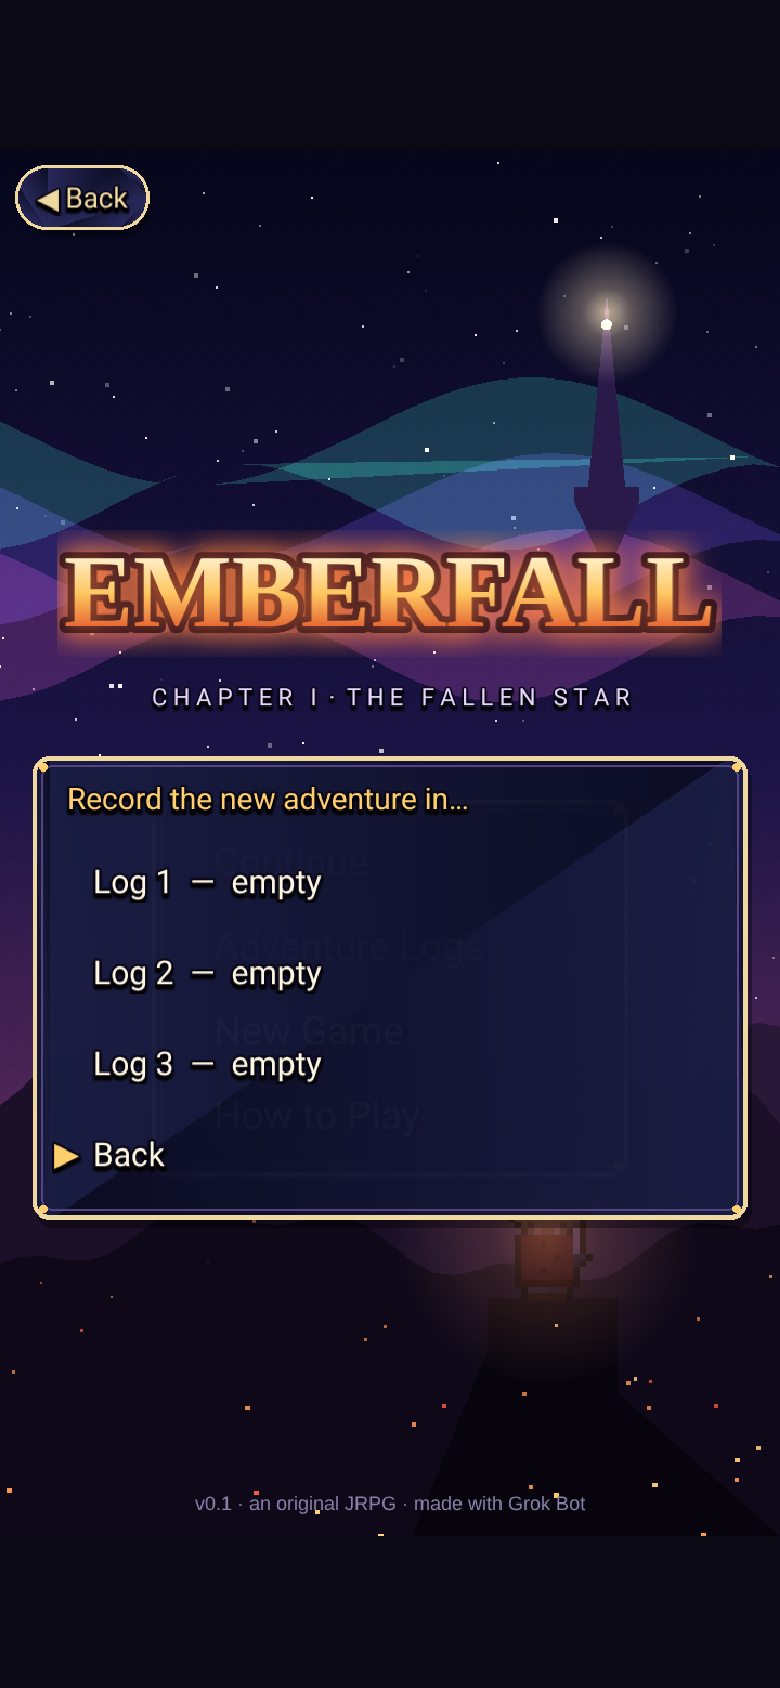
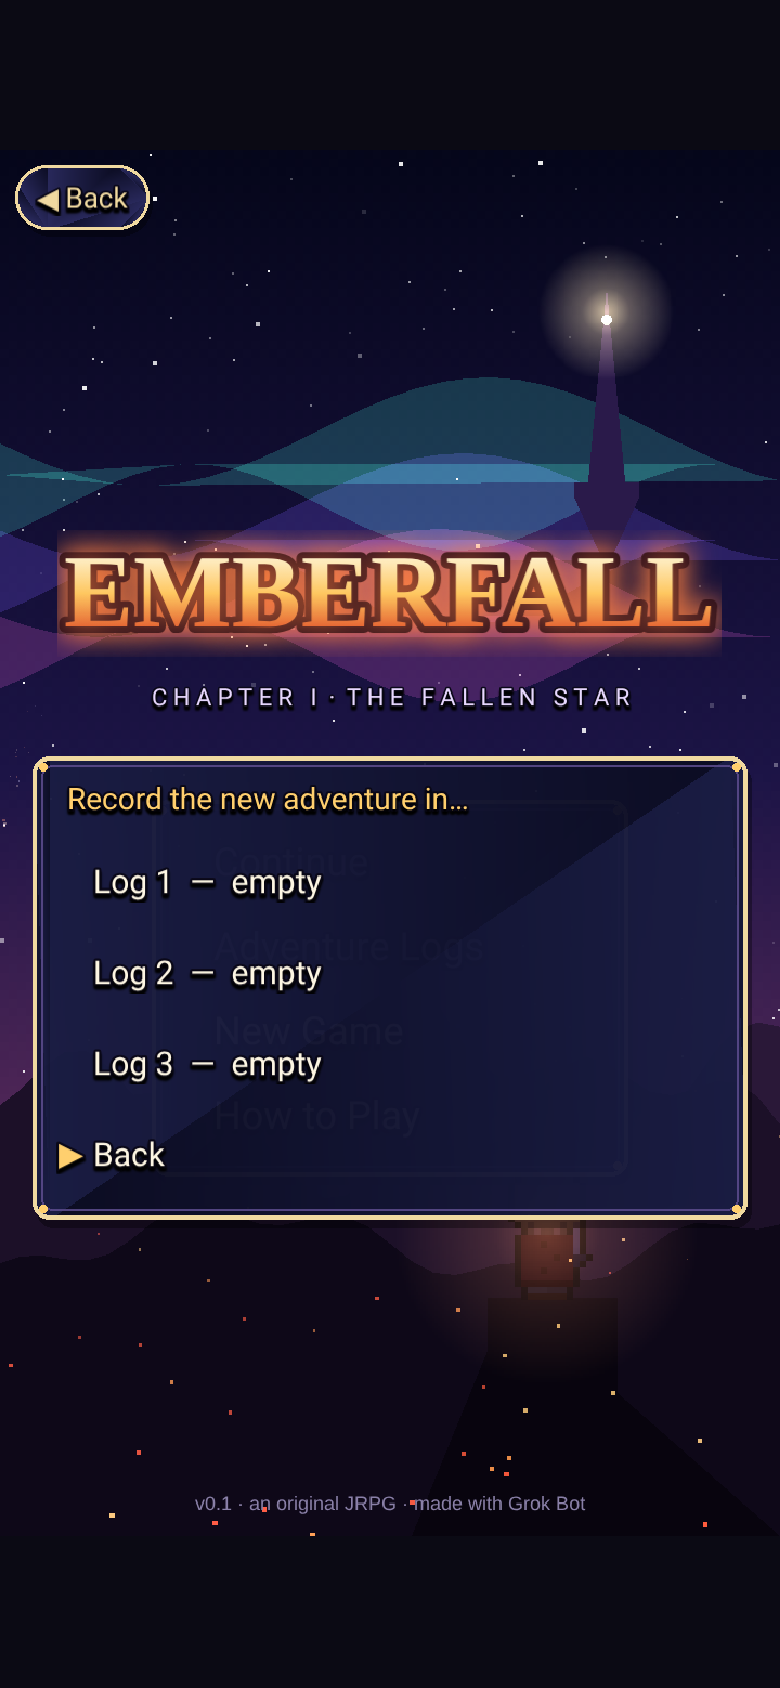
HD party dolls (EPX+rim light) in battle/menus, cloud shadows, sun shafts, water glints, title v0.2, slot picker preselect, Ch2 playthrough test, data-check

Changed region(s): [[0.2154, 0.1848, 1.0, 0.4313], [0.0, 0.2464, 0.1846, 0.4313], [0.0615, 0.6777, 0.1231, 0.7085]]

diff --git a/src/scenes/UIScene.ts b/src/scenes/UIScene.ts
@@ -8,7 +8,7 @@ import { TUTORIALS, QUESTS } from '../data/story';
 import { ITEMS, SLOTS, SLOT_NAMES, Slot } from '../data/items';
 import { SKILLS } from '../data/skills';
 import { VOCATIONS, xpFor } from '../data/vocations';
-import { ensureDoll, specOf } from '../systems/paperdoll';
+import { ensureDollHd as ensureDoll, specOf } from '../systems/paperdoll';
 import type { WorldScene } from './WorldScene';
 
 const SHOPS: Record<string, string[]> = {
@@ -215,7 +215,7 @@ export class UIScene extends Phaser.Scene {
       const c = this.add.container(0, 0).setDepth(1300);
       c.add(this.add.rectangle(0, 0, W, H, 0x05040c, 0.9).setOrigin(0).setInteractive());
       c.add(panel(this, 20, 120, W - 40, 1040));
-      const key = ensureDoll(this, specOf(mm)); const d = this.add.sprite(170, 480, key, 0).setOrigin(0.5, 1).setScale(11); c.add(d);
+      const key = ensureDoll(this, specOf(mm)); const d = this.add.sprite(170, 480, key, 0).setOrigin(0.5, 1).setScale(5.5); c.add(d);
       this.time.addEvent({ delay: 250, repeat: 40, callback: () => d.active && d.setFrame([0, 1, 0, 2][Math.floor(this.time.now / 250) % 4]) });
       c.add(txt(this, 330, 160, mm.name, 44, COL.accent, { fontFamily: SERIF }));
       c.add(txt(this, 330, 220, `${v.name}  ·  Level ${mm.level}`, 28));
@@ -268,7 +268,7 @@ export class UIScene extends Phaser.Scene {
     const view = this.add.container(0, 0).setDepth(1300);
     view.add(this.add.rectangle(0, 0, W, H, 0x05040c, 0.88).setOrigin(0).setInteractive());
     view.add(panel(this, 20, 120, W - 40, 420));
-    const doll = this.add.sprite(170, 500, '__DEFAULT').setOrigin(0.5, 1).setScale(14); view.add(doll);
+    const doll = this.add.sprite(170, 500, '__DEFAULT').setOrigin(0.5, 1).setScale(7); view.add(doll);
     const statT = txt(this, 320, 150, '', 28, COL.text, { lineSpacing: 10 }); view.add(statT);
     view.add(txt(this, 170, 140, mem.name, 30, COL.accent).setOrigin(0.5, 0));
     let dir = 0; const anim = this.time.addEvent({ delay: 220, loop: true, callback: () => { const f = [0, 1, 0, 2][Math.floor(this.time.now / 220) % 4]; doll.setFrame(dir * 3 + f); } });
@@ -325,7 +325,7 @@ export class UIScene extends Phaser.Scene {
       Game.s.party.forEach((m, i) => {
         const ok = canEquip(m, id); const x = 40 + sp * i + sp / 2;
         const eq = ok ? { ...m.equip, [it.slot!]: id } : m.equip;
-        const d = this.add.sprite(x, 380, ensureDoll(this, { look: m.look, equip: eq }), 0).setOrigin(0.5, 1).setScale(n > 2 ? 8 : 10).setAlpha(ok ? 1 : 0.35);
+        const d = this.add.sprite(x, 380, ensureDoll(this, { look: m.look, equip: eq }), 0).setOrigin(0.5, 1).setScale(n > 2 ? 4 : 5).setAlpha(ok ? 1 : 0.35);
         this.tweens.add({ targets: d, y: 374, yoyo: true, repeat: -1, duration: 400 });
         const cur = stats(m), nx = stats({ ...m, equip: eq }); const k = Object.keys(it.mods || {})[0] || 'def';
         const diff = (nx as any)[k] - (cur as any)[k];
@@ -392,7 +392,7 @@ export class UIScene extends Phaser.Scene {
         const view = this.add.container(0, 0).setDepth(1300);
         view.add(this.add.rectangle(0, 0, W, H, 0x05040c, 0.86).setOrigin(0).setInteractive());
         view.add(panel(this, 20, 120, W - 40, 330));
-        const doll = this.add.sprite(150, 420, ensureDoll(this, specOf(mem)), 0).setOrigin(0.5, 1).setScale(11); view.add(doll);
+        const doll = this.add.sprite(150, 420, ensureDoll(this, specOf(mem)), 0).setOrigin(0.5, 1).setScale(5.5); view.add(doll);
         const dt = txt(this, 290, 150, '', 25, COL.text, { wordWrap: { width: W - 330 }, lineSpacing: 6 }); view.add(dt);
         const m = new ListMenu(this, 20, 470, W - 40, keys.map(k => ({ label: VOCATIONS[k].name, sub: k === mem.voc ? `Lv${lv(k)} (current)` : `Lv${lv(k)}`, color: k === mem.voc ? COL.accent : undefined })), { title: `${mem.name}'s vocation`, rows: 7, itemH: 72 }).setDepth(1301);
         const upd = (k: number) => { const v = VOCATIONS[keys[k]]; const st = stats({ ...mem, voc: keys[k], level: lv(keys[k]) } as any); dt.setText(`${v.name}\n${v.desc.replace(/ \(Unlocked.*\)/, '')}\n\nHP ${st.hp}  MP ${st.mp}  ATK ${st.atk}\nDEF ${st.def}  AGI ${st.agi}  MAG ${st.mag}`); };

diff --git a/src/scenes/WorldScene.ts b/src/scenes/WorldScene.ts
@@ -251,6 +251,30 @@ export class WorldScene extends Phaser.Scene {
       this.add.particles(0, 0, 'px', { x: { min: 0, max: mw }, y: { min: 0, max: mh }, lifespan: 3200, speedY: { min: -12, max: -4 }, speedX: { min: -2, max: 2 }, scale: { start: 0.5, end: 1.1 }, alpha: { start: 0.7, end: 0 }, tint: [0xa0f0ff, 0x60f0d0], blendMode: 'ADD', frequency: 90 }).setDepth(8003);
       this.add.particles(0, 0, 'light', { x: { min: 0, max: mw }, y: { min: 0, max: mh }, lifespan: 5000, scale: { start: 0.05, end: 0.25 }, alpha: { start: 0.0, end: 0.25, ease: (t: number) => Math.sin(t * Math.PI) }, tint: [0x40e0d0, 0x60a0ff], blendMode: 'ADD', frequency: 400 }).setDepth(8003);
     }
+    // ---- HD-2D atmosphere: drifting cloud shadows, sun shafts and water glints
+    const water: [number, number][] = [];
+    for (let y = 0; y < this.grid.length; y++) for (let x = 0; x < this.grid[0].length; x++) if (LEGEND[this.grid[y][x]]?.anim) water.push([x, y]);
+    if (this.def.outdoor && !this.isNight() && this.def.id !== 'spire') {
+      for (let i = 0; i < Math.ceil(mw * mh / 60000); i++) {
+        const c = this.add.image(Math.random() * mw, Math.random() * mh, 'light').setTint(0x10182a).setAlpha(0.13).setScale(1.3 + Math.random() * 0.8, 0.9 + Math.random() * 0.5).setDepth(4990);
+        const drift = () => { const sp = 6 + Math.random() * 4; this.tweens.add({ targets: c, x: mw + 220, duration: ((mw + 220 - c.x) / sp) * 1000, onComplete: () => { c.x = -220; c.y = Math.random() * mh; drift(); } }); };
+        drift();
+      }
+      for (let i = 0; i < 3; i++) {
+        const r = this.add.image(0, 0, 'light').setTint(0xfff0c0).setBlendMode(Phaser.BlendModes.ADD).setScale(0.16, 1.7).setRotation(-0.45).setAlpha(0).setScrollFactor(0).setDepth(8090);
+        r.setPosition(300 + i * 55, 540 + i * 12); // screen-space (camera zoom 4 around the centre)
+        this.tweens.add({ targets: r, alpha: 0.07 + i * 0.015, yoyo: true, repeat: -1, duration: 4200 + i * 1300, delay: i * 900, ease: 'Sine.inOut' });
+      }
+    }
+    if (water.length) {
+      const glintC = this.isNight() ? [0x9ab0ff] : [0xffffff, 0xfff0c0, 0xc0f0ff];
+      this.time.addEvent({ delay: Math.max(40, 2400 / Math.min(60, water.length)), loop: true, callback: () => {
+        const [x, y] = water[Math.floor(Math.random() * water.length)]; const cam = this.cameras.main.worldView;
+        const px = x * TS + 2 + Math.random() * 12, py = y * TS + 2 + Math.random() * 12; if (!cam.contains(px, py)) return;
+        const g = this.add.image(px, py, 'px').setTint(glintC[Math.floor(Math.random() * glintC.length)]).setBlendMode(Phaser.BlendModes.ADD).setScale(2, 1).setAlpha(0).setDepth(2);
+        this.tweens.add({ targets: g, alpha: 0.9, scaleX: 3, yoyo: true, duration: 380, onComplete: () => g.destroy() });
+      } });
+    }
   }
   // ------------------------------------------------------------------ movement
   solidAt(x: number, y: number, ignoreActor?: Actor) {

diff --git a/src/scenes/CreateScene.ts b/src/scenes/CreateScene.ts
@@ -3,7 +3,7 @@ import { txt, panel, W, H, COL, SERIF } from '../ui/widgets';
 import { Input, Focus, Action } from '../ui/input';
 import { Audio } from '../systems/audio';
 import { Game, newMember, Look, stats, Member } from '../systems/state';
-import { ensureDoll, SKIN_NAMES, HAIR_NAMES, EYE_NAMES, OUTFIT_NAMES, HAIR_STYLES, FACES, BODIES, randomLook } from '../systems/paperdoll';
+import { ensureDoll, ensureDollHd, SKIN_NAMES, HAIR_NAMES, EYE_NAMES, OUTFIT_NAMES, HAIR_STYLES, FACES, BODIES, randomLook } from '../systems/paperdoll';
 import { VOCATIONS, STARTING_VOCS } from '../data/vocations';
 
 const STARTER: Record<string, Record<string, string>> = {
@@ -36,7 +36,7 @@ export class CreateScene extends Phaser.Scene implements Focus {
     const ped = this.add.graphics(); ped.fillStyle(0x3a2a6a, 1); ped.fillEllipse(W / 2, 470, 260, 60); ped.fillStyle(0x6a5aa0, 1); ped.fillEllipse(W / 2, 462, 230, 44);
     this.add.image(W / 2, 330, 'light').setTint(0xffd890).setScale(3.2).setAlpha(0.3).setBlendMode(Phaser.BlendModes.ADD);
     this.add.particles(0, 0, 'dot', { x: { min: W / 2 - 120, max: W / 2 + 120 }, y: 470, lifespan: 2000, speedY: { min: -40, max: -90 }, scale: { start: 1, end: 0 }, alpha: { start: 0.8, end: 0 }, tint: [0xffe8a0, 0x9ad0ff], blendMode: 'ADD', frequency: 120 });
-    this.doll = this.add.sprite(W / 2, 470, '__DEFAULT').setOrigin(0.5, 1).setScale(13);
+    this.doll = this.add.sprite(W / 2, 470, '__DEFAULT').setOrigin(0.5, 1).setScale(6.5);
     const rot = (d: number) => { this.dirIdx = (this.dirIdx + d + 4) % 4; this.refreshDoll(); Audio.sfx('cursor'); };
     const la = txt(this, W / 2 - 230, 330, '⟲', 54, COL.goldS).setOrigin(0.5).setInteractive(); la.on('pointerdown', () => rot(1));
     const ra = txt(this, W / 2 + 230, 330, '⟳', 54, COL.goldS).setOrigin(0.5).setInteractive(); ra.on('pointerdown', () => rot(-1));
@@ -91,7 +91,7 @@ export class CreateScene extends Phaser.Scene implements Focus {
   }
   /** Starting vocations, plus those unlocked at the Chapel of Alltrades. */
   vocList() { return Object.keys(VOCATIONS).filter(k => STARTING_VOCS.includes(k) || (this.mode === 'companion' && Game.s?.flags?.vocationsOpen)); }
-  refreshDoll() { const key = ensureDoll(this, { look: { ...this.look }, equip: STARTER[this.voc] }); this.doll.setTexture(key, [0, 3, 9, 6][this.dirIdx]); }
+  refreshDoll() { const key = ensureDollHd(this, { look: { ...this.look }, equip: STARTER[this.voc] }); this.doll.setTexture(key, [0, 3, 9, 6][this.dirIdx]); }
   change(d: number) {
     const r = this.rows[this.sel]; if (!r.opts) return; const n = r.opts.length; r.set((r.get() + d + n) % n); Audio.sfx('cursor');
     this.buildRows(); this.refreshDoll();

diff --git a/src/scenes/BattleScene.ts b/src/scenes/BattleScene.ts
@@ -7,7 +7,7 @@ import { Game, stats, Member, skillsOf, gainXp } from '../systems/state';
 import { ENEMIES, EnemyDef } from '../data/enemies';
 import { SKILLS, Skill } from '../data/skills';
 import { ITEMS } from '../data/items';
-import { ensureDoll, specOf } from '../systems/paperdoll';
+import { ensureDoll, ensureDollHd, specOf } from '../systems/paperdoll';
 import { TUTORIALS } from '../data/story';
 
 interface Foe { def: EnemyDef; name: string; hp: number; mp: number; spr: Phaser.GameObjects.Sprite; x: number; y: number; alive: boolean; buffDef: number; buffAtk: number; poisoned: boolean; charged: boolean; stolen?: boolean; asleep?: number; chargeAct?: any }
@@ -69,7 +69,7 @@ export class BattleScene extends Phaser.Scene {
     const pn = this.party.length;
     this.party.forEach((m, i) => {
       const x = pn === 1 ? 590 : 540 + i * 44, y = pn === 1 ? 640 : 500 + i * 85;
-      const spr = this.add.sprite(x, y, ensureDoll(this, specOf(m)), 3).setOrigin(0.5, 1).setScale(7).setDepth(y / 100);
+      const spr = this.add.sprite(x, y, ensureDollHd(this, specOf(m)), 3).setOrigin(0.5, 1).setScale(3.5).setDepth(y / 100);
       spr.setData('hx', x);
       this.tweens.add({ targets: spr, scaleY: 7.14, yoyo: true, repeat: -1, duration: 900 + i * 120, ease: 'Sine.inOut' });
       this.add.image(x, y - 4, 'shadow').setScale(6, 3).setDepth(-0.4);
@@ -138,6 +138,7 @@ export class BattleScene extends Phaser.Scene {
     const ids = [...new Set(f.map(x => x.def.id))];
     const parts = ids.map(id => { const c = f.filter(x => x.def.id === id).length; const d = ENEMIES[id]; if (c > 1) return `${c} ${d.name}s`; return this.boss && d.boss ? d.name : art(d.name); });
     if (this.boss) { const bi = ids.findIndex(id => ENEMIES[id].boss); if (bi > 0) parts.unshift(parts.splice(bi, 1)[0]); }
+    for (let i = 1; i < parts.length; i++) parts[i] = parts[i].replace(/^An? /, m => m.toLowerCase());
     return parts.length < 3 ? parts.join(' and ') : parts.slice(0, -1).join(', ') + ' and ' + parts[parts.length - 1];
   }
   async commandPhase(): Promise<Act[]> {

diff --git a/src/scenes/TitleScene.ts b/src/scenes/TitleScene.ts
@@ -54,9 +54,9 @@ export class TitleScene extends Phaser.Scene {
     logo.setScale(1.4).setAlpha(0); this.tweens.add({ targets: logo, scale: 1, alpha: 1, duration: 1400, ease: 'Expo.out' });
     const glow = this.add.image(W / 2, 410, 'light').setTint(0xff8040).setScale(6, 1.6).setBlendMode(Phaser.BlendModes.ADD).setAlpha(0.3).setDepth(-1);
     this.tweens.add({ targets: glow, alpha: 0.55, yoyo: true, repeat: -1, duration: 1800 });
-    const sub = txt(this, W / 2, 505, 'C H A P T E R   I  ·  T H E   F A L L E N   S T A R', 22, '#e8d8ff').setOrigin(0.5).setAlpha(0);
+    const sub = txt(this, W / 2, 505, 'A   T A L E   O F   F A L L E N   S T A R S', 22, '#e8d8ff').setOrigin(0.5).setAlpha(0);
     this.tweens.add({ targets: sub, alpha: 1, delay: 900, duration: 900 });
-    this.add.text(W / 2, H - 30, 'v0.1 · an original JRPG · made with Grok Bot', { fontFamily: 'sans-serif', fontSize: '18px', color: '#8a80a8' }).setOrigin(0.5);
+    this.add.text(W / 2, H - 30, `v${__APP_VERSION__} · an original JRPG · made with Grok Bot`, { fontFamily: 'sans-serif', fontSize: '18px', color: '#8a80a8' }).setOrigin(0.5);
 
     const tap = txt(this, W / 2, 700, 'TAP TO BEGIN', 36, COL.accent).setOrigin(0.5);
     this.tweens.add({ targets: tap, alpha: 0.25, yoyo: true, repeat: -1, duration: 700 });
@@ -107,6 +107,8 @@ export class TitleScene extends Phaser.Scene {
         return { label: `Log ${i + 1}  ${inf.name}`, sub: `Lv${inf.level} · ${names[inf.chapter - 1] || ''} · ${tm}${inf.fromBackup ? ' ⚠' : ''}` };
       });
       const m = new ListMenu(this, 30, 560, W - 60, [...items, { label: 'Back' }], { title, itemH: 84, fontSize: 30 }).setDepth(50);
+      { const infos = Array.from({ length: SLOTS_N }, (_, i) => Game.slotInfo(i)); const empty = infos.findIndex(x => !x); const latest = Game.latestSlot();
+        m.idx = loading ? Math.max(0, latest) : empty >= 0 ? empty : Math.max(0, latest); m.refresh(); }
       m.onSelect = i => { m.close(); res(i === SLOTS_N ? -1 : i); }; m.onCancel = () => { m.close(); res(-1); };
     });
   }

diff --git a/src/systems/art.ts b/src/systems/art.ts
@@ -207,6 +207,13 @@ export class Pix {
   }
   /** EPX/Scale2x upscale + rim light + ambient occlusion: the large battle version of a monster. */
   toHd(scene: Phaser.Scene, key: string) {
+    const W2 = this.w * 2, H2 = this.h * 2;
+    const t = scene.textures.createCanvas(key, W2, H2)!; const ctx = t.getContext(); const img = ctx.createImageData(W2, H2);
+    this.hdInto(img.data, W2, 0, 0);
+    ctx.putImageData(img, 0, 0); t.refresh();
+  }
+  /** Write the EPX + rim-lit 2× version into an RGBA buffer of width `stride` at (ox, oy). */
+  hdInto(data: Uint8ClampedArray, stride: number, ox: number, oy: number) {
     const w = this.w, h = this.h, W2 = w * 2, H2 = h * 2, o = new Array(W2 * H2).fill(-1);
     const g = (x: number, y: number) => (x < 0 || y < 0 || x >= w || y >= h) ? -1 : this.d[y * w + x];
     for (let y = 0; y < h; y++) for (let x = 0; x < w; x++) {
@@ -217,7 +224,6 @@ export class Pix {
       o[(y * 2) * W2 + x * 2] = e1; o[(y * 2) * W2 + x * 2 + 1] = e2; o[(y * 2 + 1) * W2 + x * 2] = e3; o[(y * 2 + 1) * W2 + x * 2 + 1] = e4;
     }
     const lum = (c: number) => ((c >> 16 & 255) * 3 + (c >> 8 & 255) * 6 + (c & 255)) / 10;
-    const t = scene.textures.createCanvas(key, W2, H2)!; const ctx = t.getContext(); const img = ctx.createImageData(W2, H2);
     for (let y = 0; y < H2; y++) for (let x = 0; x < W2; x++) {
       let c = o[y * W2 + x]; if (c < 0) continue;
       if (lum(c) > 40) {
@@ -230,9 +236,8 @@ export class Pix {
         if (((x + y) & 1) && f < 0.86) f -= 0.05;         // dithered shadow
         c = shade(c, f);
       }
-      const i = (y * W2 + x) * 4; img.data[i] = c >> 16 & 255; img.data[i + 1] = c >> 8 & 255; img.data[i + 2] = c & 255; img.data[i + 3] = 255;
+      const i = ((oy + y) * stride + ox + x) * 4; data[i] = c >> 16 & 255; data[i + 1] = c >> 8 & 255; data[i + 2] = c & 255; data[i + 3] = 255;
     }
-    ctx.putImageData(img, 0, 0); t.refresh();
   }
 }
 

diff --git a/src/scenes/EndScene.ts b/src/scenes/EndScene.ts
@@ -2,7 +2,7 @@ import Phaser from 'phaser';
 import { txt, W, H, SERIF, COL } from '../ui/widgets';
 import { Audio } from '../systems/audio';
 import { Game } from '../systems/state';
-import { ensureDoll, specOf } from '../systems/paperdoll';
+import { ensureDoll, ensureDollHd, specOf } from '../systems/paperdoll';
 
 const fast = () => !!(window as any).__EMBER?.fast;
 export class EndScene extends Phaser.Scene {
@@ -17,7 +17,7 @@ export class EndScene extends Phaser.Scene {
     for (let i = 0; i < 120; i++) { const s = this.add.image(Math.random() * W, Math.random() * H, 'px').setAlpha(Math.random()); this.tweens.add({ targets: s, alpha: 0.1, yoyo: true, repeat: -1, duration: 600 + Math.random() * 2000 }); }
     this.time.addEvent({ delay: 500, loop: true, callback: () => { const x = Math.random() * W; const st = this.add.image(x, -10, 'star').setScale(1 + Math.random()).setTint(0xffe8a0).setBlendMode(Phaser.BlendModes.ADD); this.tweens.add({ targets: st, x: x - 300, y: H * 0.7, alpha: 0, duration: 2500, onComplete: () => st.destroy() }); } });
     const party = Game.s.party;
-    party.forEach((m, i) => { const x = W / 2 + (i - (party.length - 1) / 2) * 140; this.add.sprite(x, 1100, ensureDoll(this, specOf(m)), 0).setOrigin(0.5, 1).setScale(7); });
+    party.forEach((m, i) => { const x = W / 2 + (i - (party.length - 1) / 2) * 140; this.add.sprite(x, 1100, ensureDollHd(this, specOf(m)), 0).setOrigin(0.5, 1).setScale(3.5); });
     const lines: [string, number, string][] = [
       [this.chapter === 1 ? 'END OF CHAPTER I' : 'END OF CHAPTER II', 52, '#ffd890'], [this.chapter === 1 ? 'The Fallen Star' : 'The Drowned Choir', 34, '#e8d8ff'], ['', 20, ''],
       [`${Game.hero.name}  ·  Level ${Game.hero.level}`, 30, COL.text], [`Play time ${Math.floor(Game.s.playTime / 60)} min  ·  ${Game.s.gold} gold`, 26, COL.dim], ['', 20, ''],

diff --git a/src/systems/paperdoll.ts b/src/systems/paperdoll.ts
@@ -7,6 +7,7 @@
 import Phaser from 'phaser';
 import { ITEMS } from '../data/items';
 import type { Look, Member } from './state';
+import { Pix } from './art';
 
 export const SKIN = [0xf8d9bc, 0xefc19a, 0xd69c6c, 0xa86d43, 0x74472a, 0xc9e0f0];
 export const SKIN_NAMES = ['Porcelain', 'Fair', 'Honey', 'Bronze', 'Umber', 'Starlit'];
@@ -249,6 +250,24 @@ export function ensureDoll(scene: Phaser.Scene, sp: DollSpec): string {
     ctx.putImageData(img, s * FW, d * FH);
     tex.add(d * 3 + s, 0, s * FW, d * FH, FW, FH);
   }
+  tex.refresh();
+  return key;
+}
+/** 2× EPX + rim-lit version of the doll sheet (same frame layout) for battle and menu close-ups. */
+export function ensureDollHd(scene: Phaser.Scene, sp: DollSpec): string {
+  const key = dollKey(sp) + '_hd';
+  if (scene.textures.exists(key)) return key;
+  const W2 = FW * 2, H2 = FH * 2;
+  const tex = scene.textures.createCanvas(key, W2 * 3, H2 * 4)!; const ctx = tex.getContext();
+  const img = ctx.createImageData(W2 * 3, H2 * 4);
+  const dirs: Dir[] = ['F', 'S', 'S', 'B'];
+  for (let d = 0; d < 4; d++) for (let s = 0; s < 3; s++) {
+    let g = drawFrame(sp, dirs[d], s); if (d === 2) g = g.flipH();
+    const p = new Pix(FW, FH); p.d = Array.from(g.px, (c: number) => (c < 0 ? -1 : c));
+    p.hdInto(img.data, W2 * 3, s * W2, d * H2);
+  }
+  ctx.putImageData(img, 0, 0);
+  for (let d = 0; d < 4; d++) for (let s = 0; s < 3; s++) tex.add(d * 3 + s, 0, s * W2, d * H2, W2, H2);
   tex.refresh();
   return key;
 }

diff --git a/src/data/maps.ts b/src/data/maps.ts
@@ -338,7 +338,7 @@ function saltmere() {
   b.set(10, 10, 'T'); b.set(28, 13, 'T'); b.set(2, 15, 'T'); b.set(36, 20, 'T'); b.set(28, 21, 'T');
   // harbour props: barrels & crates by the shops, flower boxes, lamp posts along the sea wall, a market stall
   b.set(11, 6, '>'); b.set(19, 6, '>'); b.set(2, 6, '>'); b.set(20, 6, 'f'); b.set(11, 9, 'f'); b.set(29, 9, 'f'); b.set(36, 15, 'f');
-  for (const x of [11, 15, 29, 33, 37]) b.set(x, 22, '/');
+  // (mooring posts live in the water at row 28; the promenade is kept clear)
   b.set(14, 21, '>'); b.set(15, 21, '>'); b.set(23, 21, '$'); b.set(7, 16, '$'); b.set(2, 12, 'T'); b.set(38, 9, 'T'); b.set(27, 9, 'T');
   b.set(12, 8, 'S');
   return b.done();

diff --git a/vite.config.ts b/vite.config.ts
@@ -1,2 +1,3 @@
 import { defineConfig } from 'vite';
-export default defineConfig({ base: './', build: { chunkSizeWarningLimit: 2000, target: 'es2020' } });
+import pkg from './package.json';
+export default defineConfig({ base: './', define: { __APP_VERSION__: JSON.stringify(pkg.version) }, build: { chunkSizeWarningLimit: 2000, target: 'es2020' } });

diff --git a/src/globals.d.ts b/src/globals.d.ts
@@ -1,0 +1,1 @@
+declare const __APP_VERSION__: string;
